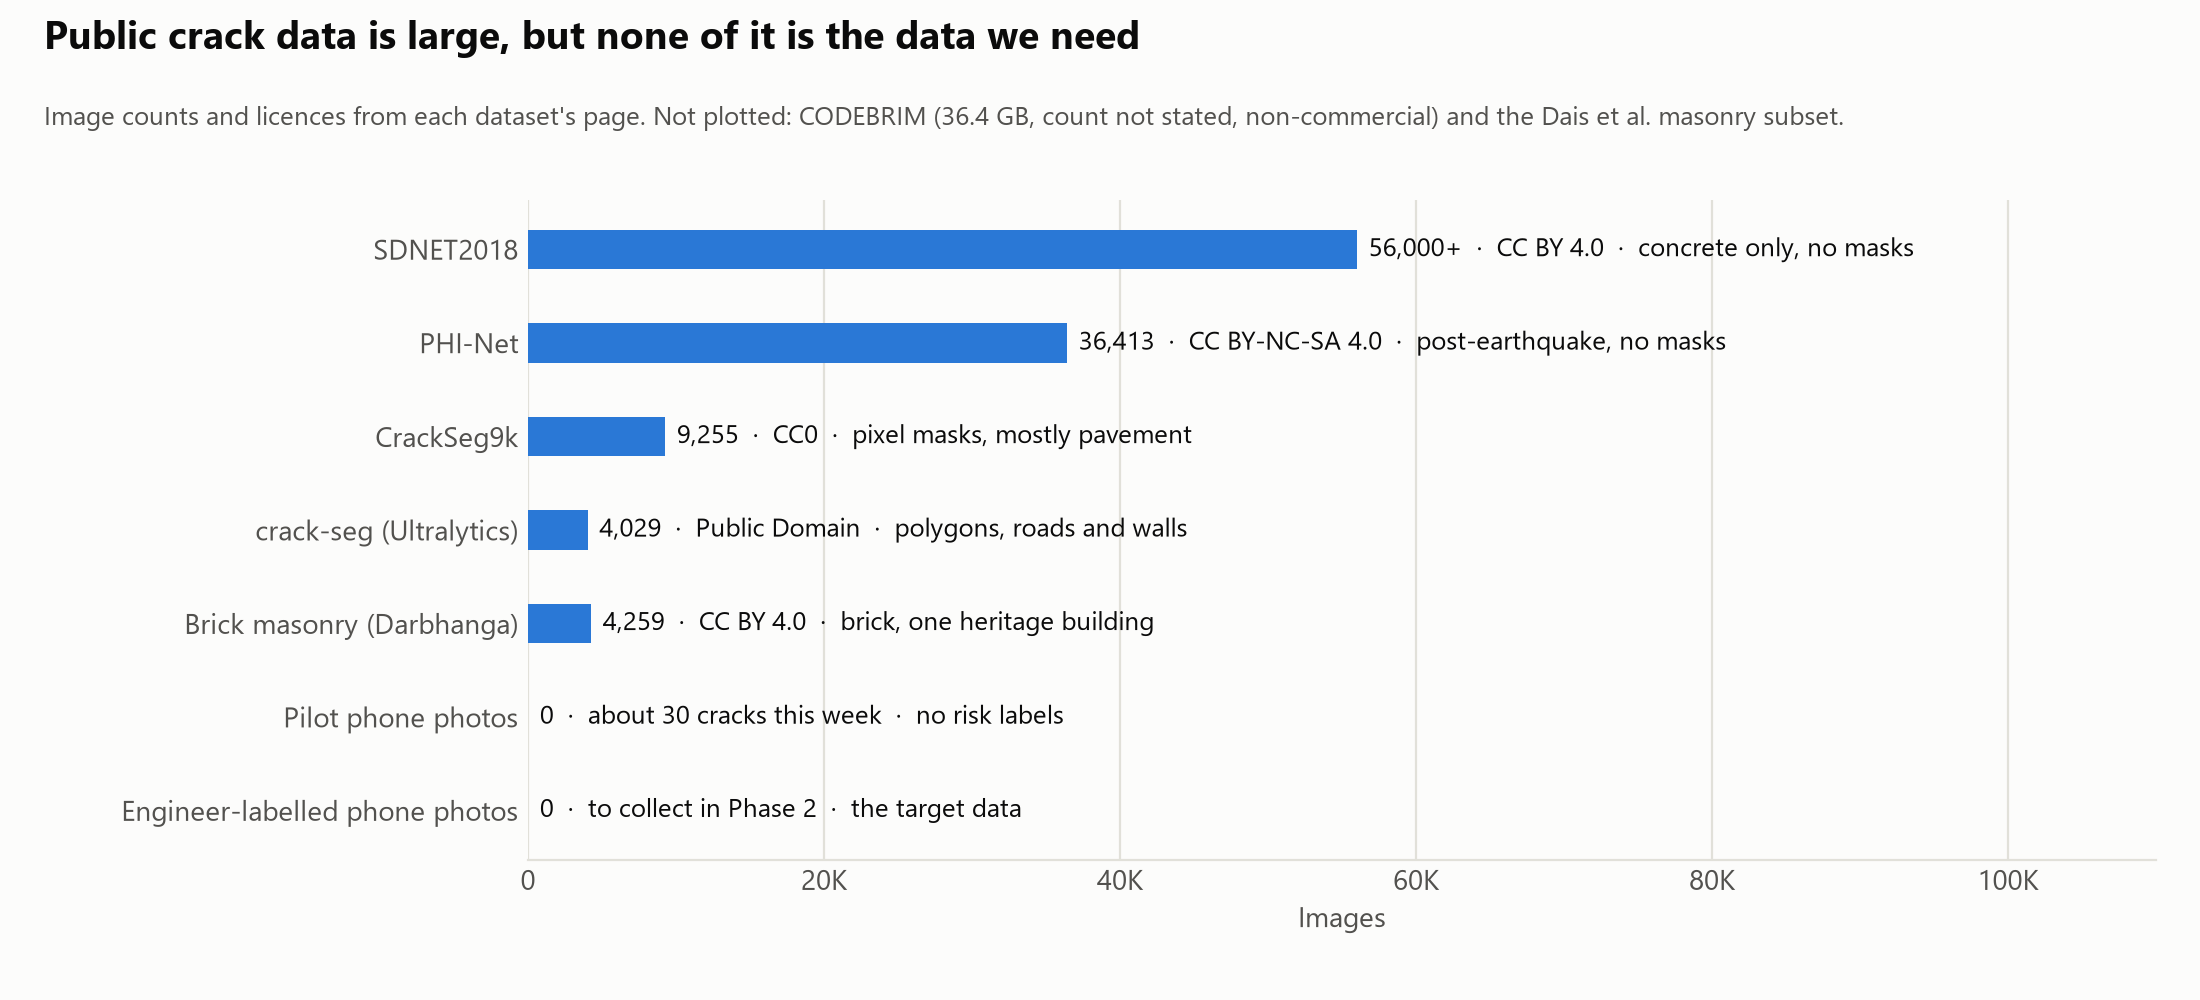
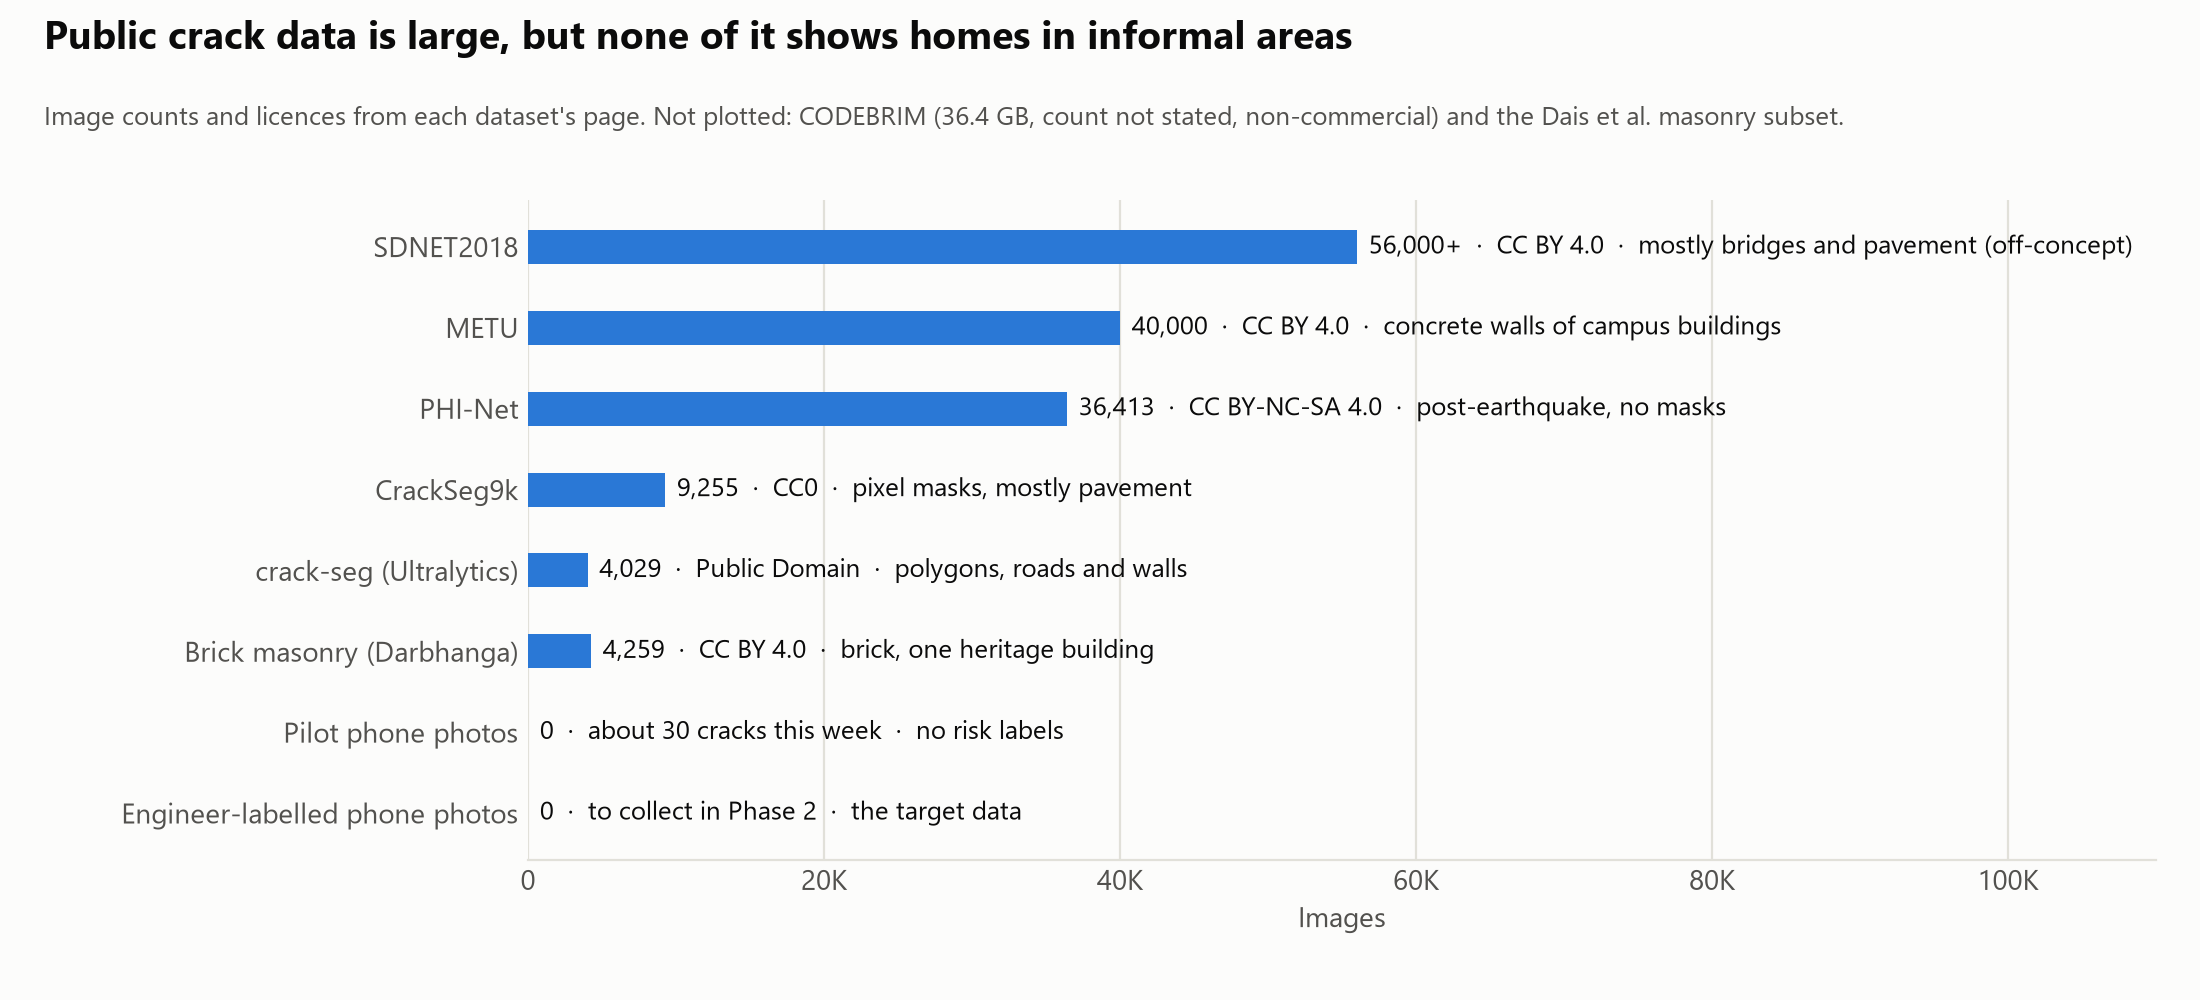
Focus on buildings in informal areas; add METU, log two Kaggle sets
- D14: the concept is buildings in slum-like, informal neighbourhoods;
  data map ranks every source by fit (bridges and pavement off-concept)
- METU building-concrete set added and run through the quality gate:
  confirms the smooth-wall blur problem on building walls (D12)
- Two Kaggle crack sets checked and logged as not used
- Dataset chart updated

diff --git a/src/experiments/real_data_quality.py b/src/experiments/real_data_quality.py
@@ -4,6 +4,7 @@ Spec: spec/features/quality_gate.md. Usage, from the repository root:
     py src/experiments/real_data_quality.py data/raw/crack-seg data/raw/sdnet2018 --per-group 200
 Recognised layouts (a root with no images is skipped):
 - SDNET2018: <surface>/<C|U><surface letter>/*.jpg (e.g. D/CD, W/UW)
+- METU: Positive/*.jpg (crack) and Negative/*.jpg (no crack)
 - YOLO style (Ultralytics crack-seg, Darbhanga): an "images" folder with a sibling "labels" folder.
   A non-empty label file means crack, a missing or empty one no crack; no labels folder means unlabelled.
 Writes per-image results to data/processed/ (ignored) and a histogram to figures/.
@@ -21,7 +22,8 @@ if __package__ in (None, ""):
 from quality.gate import MAX_BRIGHTNESS, MIN_BRIGHTNESS, MIN_SHARPNESS, check, to_grey
 
 SDNET_SURFACES = {"D": "bridge deck", "W": "wall", "P": "pavement"}
-DATASET_NAMES = {"crack-seg": "crack-seg (roads, walls)", "darbhanga": "Darbhanga (brick masonry)"}
+DATASET_NAMES = {"crack-seg": "crack-seg (roads, walls)", "darbhanga": "Darbhanga (brick masonry)",
+                 "metu": "METU (building concrete)"}
 ROOT = Path(__file__).resolve().parents[2]
 
 
@@ -45,6 +47,8 @@ def find_images(root: Path) -> dict[tuple[str, str], list[Path]]:
         name = path.parent.name.upper()
         if len(name) == 2 and name[0] in "CU" and name[1] in SDNET_SURFACES:
             groups[(f"SDNET2018 {SDNET_SURFACES[name[1]]}", "crack" if name[0] == "C" else "no crack")].append(path)
+        elif name in ("POSITIVE", "NEGATIVE"):  # METU layout
+            groups[(DATASET_NAMES.get(root.name, root.name), "crack" if name == "POSITIVE" else "no crack")].append(path)
         else:
             groups[(DATASET_NAMES.get(root.name, root.name), yolo_label(path) or "unlabelled")].append(path)
     return dict(groups)

diff --git a/src/viz/figures.py b/src/viz/figures.py
@@ -241,7 +241,8 @@ def data_coverage():
 
 
 # From docs/data_map.md, section 2 (checked on the source pages, 24 Oct 2026).
-DATASETS = [("SDNET2018", 56_000, "56,000+  ·  CC BY 4.0  ·  concrete only, no masks"),
+DATASETS = [("SDNET2018", 56_000, "56,000+  ·  CC BY 4.0  ·  mostly bridges and pavement (off-concept)"),
+            ("METU", 40_000, "40,000  ·  CC BY 4.0  ·  concrete walls of campus buildings"),
             ("PHI-Net", 36_413, "36,413  ·  CC BY-NC-SA 4.0  ·  post-earthquake, no masks"),
             ("CrackSeg9k", 9_255, "9,255  ·  CC0  ·  pixel masks, mostly pavement"),
             ("crack-seg (Ultralytics)", 4_029, "4,029  ·  Public Domain  ·  polygons, roads and walls"),
@@ -267,7 +268,7 @@ def dataset_sizes():
     for s in ("top", "right", "left"):
         ax.spines[s].set_visible(False)
     ax.set_xlabel("Images")
-    fig.suptitle("Public crack data is large, but none of it is the data we need",
+    fig.suptitle("Public crack data is large, but none of it shows homes in informal areas",
                  x=0.02, ha="left", fontsize=14, weight="bold")
     fig.text(0.02, 0.875, "Image counts and licences from each dataset's page. Not plotted: CODEBRIM (36.4 GB, count "
              "not stated, non-commercial) and the Dais et al. masonry subset.", fontsize=9.5, color=INK_2)

diff --git a/tests/test_real_data_quality.py b/tests/test_real_data_quality.py
@@ -57,6 +57,14 @@ def test_find_images_darbhanga(tmp_path):
     assert {k[1]: len(v) for k, v in find_images(root).items()} == {"crack": 1, "no crack": 1, "unlabelled": 2}
 
 
+def test_find_images_metu(tmp_path):
+    root = tmp_path / "metu"
+    _save(root / "Positive", 2)
+    _save(root / "Negative", 3)
+    assert {k: len(v) for k, v in find_images(root).items()} == {
+        ("METU (building concrete)", "crack"): 2, ("METU (building concrete)", "no crack"): 3}
+
+
 def test_main_runs_both_and_skips_empty_roots(tmp_path):
     _fake_sdnet(tmp_path / "sdnet")
     _fake_crackseg(tmp_path / "crack-seg")

diff --git a/docs/data_map.md b/docs/data_map.md
@@ -3,7 +3,23 @@
 Version for 29 Oct 2026. Public dataset facts checked on the source pages on 24 and 25 Oct 2026; numbers in brackets refer to `docs/sources.md`.
 Raw data is never committed; it lives in `data/` (git-ignored).
 
-**Bottom line.** Public data can pre-train the detector and the segmenter. No public dataset has an engineer's risk rating on a crack photo with a scale reference, so the engineer-labelled phone photos are unavoidable and are the critical path.
+**Bottom line.** The concept is cracks in **buildings in slum-like, informal neighbourhoods** (`spec/decisions.md` D14). No public dataset shows those buildings with a crack, a scale reference and an engineer's rating. Public data can only pre-train the detector and the segmenter; the photos we collect with our partners are the real data and the critical path.
+
+## 0. How close each dataset is to the concept
+
+| Fit | Data | Why |
+|---|---|---|
+| **Target** | Engineer-labelled phone photos from informal neighbourhoods (to collect with the partners) | The exact case: homes, phone photos, coin, engineer rating |
+| Medium | PHI-Net [26] | Real damaged buildings after earthquakes, with component and damage labels; not pre-failure cracks; non-commercial |
+| Medium | Darbhanga brick masonry [30] | Brick walls, the material of many informal homes; one heritage fort, not homes |
+| Medium | Dais et al. masonry masks [31] | Masonry walls with pixel masks; small |
+| Medium | Pilot photos, Barcelona old facades | Real buildings and phone photos with a coin; not informal settlements, no engineer |
+| Low | METU concrete cracks [36] | Concrete walls of campus buildings; formal buildings, tiles only |
+| Low | SDNET2018 walls subset [22] | Concrete walls, but of bridge-related structures; tiles only |
+| Low | crack-seg [33], CrackSeg9k [25] | Mostly roads and pavement; generic pre-training for crack pixels only |
+| **Off-concept** | CODEBRIM [28], SDNET2018 decks and pavement [22] | Bridges and roads, not buildings |
+
+**Still missing:** crack photos from informal or self-built housing. To search: post-disaster housing surveys and reconnaissance photo sets (for example the StEER reports [20]) and humanitarian shelter assessments.
 
 ## 1. What each pipeline stage needs, and where it comes from
 
@@ -34,6 +50,7 @@ Raw data is never committed; it lives in `data/` (git-ignored).
 | PEER Hub ImageNet (PHI-Net) | PEER, UC Berkeley [26][27] | Available | Download page per task; registration not stated | Images with 8 classification tasks (scene, damage state, spalling, material, collapse mode, component type, damage level, damage type) | 36,413 images (as of Nov 2019) | CC BY-NC-SA 4.0 | Post-earthquake structural images | No masks, no width, no scale; non-commercial |
 | CODEBRIM | Zenodo record 2620293 [28], CVPR 2019 paper [29] | Available | Open record, licence file must be accepted | Original images, cropped defects with class labels from bounding boxes, classification sets | 36.4 GB in total (cropped set 7.9 GB); image count not stated on the record | Non-commercial research and education only; no redistribution; trained models may not be used commercially | Five concrete defects on 30 bridges: crack, spalling, exposed bars, efflorescence, corrosion stains | Bridges, not homes; no scale; licence blocks any product use |
 | Brick masonry cracks, Darbhanga Fort | Singh and Maity, Mendeley Data [30] | **Downloaded** (SHA-256 matches) | Public download, scriptable | YOLO bounding boxes (class x y w h), 1 class; all images 768 x 768; test set has no labels | 4,259 images (3,407 train incl. 203 without cracks, 639 val, 213 test); 363 MB zip | CC BY 4.0 | Superficial cracks in red brick masonry | One heritage structure, not homes; no scale; boxes, not masks |
+| METU Concrete Crack Images for Classification | Özgenel, Mendeley Data, doi:10.17632/5y9wdsg2zt.2 [36] | **Downloaded** (SHA-256 matches) | Public download, scriptable; RAR archive | JPEG tiles 227 x 227, Positive / Negative folders | 40,000 (20,000 crack, 20,000 no crack), cut from 458 photos of 4032 x 3024; 241 MB | CC BY 4.0 | Concrete surfaces of buildings on the METU campus, Ankara | Formal campus buildings, not informal homes; no masks, no scale |
 | Masonry crack masks, Dais et al. 2021 | GitHub repository [31] | Subset available | Public repository | 224 x 224 images with crack masks | Subset only; count not stated | GPL-3.0 on the repository (written for code; terms for the images to confirm with the authors) | Masonry walls, complex backgrounds | Small; part of it is already in CrackSeg9k [32] |
 
 ### Our own data
@@ -54,14 +71,17 @@ Raw data is never committed; it lives in `data/` (git-ignored).
 
 ## 3. Not usable as data
 - Example photos in the deck (slide 8): stock images, authors not identified; their risk labels are a visual guess.
+- Kaggle "Crack Dataset" (yatata1, CC BY-SA 4.0, 13.8 GB, "under development") [37]: checked 25 Oct, not used. Its description says it was assembled from existing public crack sets (Rissbilder, the Kaggle "Crack Segmentation Dataset") and UAV infrastructure inspections, so it overlaps CrackSeg9k; mostly concrete and asphalt, off-concept (D14).
+- Kaggle "Crack Detection/Classification Dataset" (Apache 2.0 as labelled by the uploader, about 20 GB, v1 Aug 2026) [38]: checked 25 Oct, not used. Nine mixed domains (roads, metal, car bodies, wood, circuit boards, welding, synthetic concrete); only `Wall_Concrete` is near the concept, and it mixes walls with bridges. The sources it aggregates are not named, so provenance and licence cannot be traced.
 - Case-study figures (deaths, evacuations): context for the problem, not training data.
 
 ## 4. Plan, in order
 1. **First test on real data (29 Oct): done** on crack-seg, Darbhanga and SDNET2018 (`docs/experiments/2026-10-25_quality_gate_first_test.md`). It found and fixed a resolution bug in the blur check, and showed that the blur check confuses smooth walls with blur (D12). Tests the code, not the thresholds.
-2. **U-Net training set:** CrackSeg9k, plus the Dais et al. masonry masks if their image terms allow it.
-3. **Pattern gaps:** CODEBRIM for spalling with rust (research only), Darbhanga for brick masonry.
-4. **Pilot photos this week:** about 30 cracks on public facades in Barcelona, following `spec/features/photo_protocol.md`. Tests the protocol and gives the quality gate real phone photos.
-5. **Engineering partners, now:** Engineers Without Borders and a third-party structural engineer (agreement under construction) for labelled photos, baseline ratings and sign-off. Everything in Phase 2 waits on this.
+2. **U-Net pre-training:** CrackSeg9k for generic crack pixels, then fine-tune on masonry (Dais et al., if their image terms allow it) and on our own building photos.
+3. **Building-like data first:** Darbhanga (brick), PHI-Net (damaged buildings), METU (building concrete). CODEBRIM is off-concept (bridges): use it only if no building photos of spalling with rust turn up.
+4. **Find informal-housing crack photos:** post-disaster housing surveys, reconnaissance photo sets, shelter assessments (section 0).
+5. **Pilot photos this week:** about 30 cracks on public facades in Barcelona, following `spec/features/photo_protocol.md`. Tests the protocol and gives the quality gate real phone photos.
+6. **Engineering partners, now:** Engineers Without Borders and a third-party structural engineer (agreement under construction) for labelled photos, baseline ratings and sign-off. Everything in Phase 2 waits on this.
 
 ## 5. Open items
 - Consent and data rules for Phase 2: the deck says "photos stay with the household"; labelling needs copies. Write who keeps what, for how long, and how faces and addresses are removed.

diff --git a/docs/experiments/2026-10-25_quality_gate_first_test.md b/docs/experiments/2026-10-25_quality_gate_first_test.md
@@ -4,17 +4,18 @@ Deliverable for 29 Oct: "agent working on real data as a first test".
 Spec: `spec/features/quality_gate.md`. Code: `src/experiments/real_data_quality.py`. Figure: `figures/08_real_data_quality_gate.png`.
 
 ## What was run
-The quality gate's image checks (sharpness, brightness) on three public datasets, downloaded into `data/raw/` (git-ignored). First run: every image of crack-seg and Darbhanga (8,288). Second run, with SDNET2018 added: up to 2,000 random images per group (16,417).
+The quality gate's image checks (sharpness, brightness) on four public datasets, downloaded into `data/raw/` (git-ignored). First run: every image of crack-seg and Darbhanga (8,288). Later runs added SDNET2018 and METU: up to 2,000 random images per group (20,417 in the last run).
 
 | Dataset | Images | Size | Labels | Check of the download |
 |---|---|---|---|---|
 | Ultralytics crack-seg [33][34] | 4,029 (3,717 train, 200 val, 112 test) | all 416 x 416 | YOLO polygons, 1 class; 1 empty label file | Counted in the zip |
 | Darbhanga brick masonry [30] | 4,259 (3,407 train, 639 val, 213 test) | all 768 x 768 | YOLO bounding boxes, 1 class; test has no labels; 203 train images without labels (no crack) | SHA-256 matches the Mendeley record |
+| METU concrete cracks [36] | 40,000 (20,000 crack, 20,000 no crack) | 227 x 227 tiles | crack / no crack by folder | SHA-256 matches the Mendeley record |
 | SDNET2018 [22] | 56,092 (deck 2,025 cracked / 11,595 uncracked; wall 3,851 / 14,287; pavement 2,608 / 21,726) | 256 x 256 tiles | crack / no crack by folder | Downloaded in a browser (scripted download blocked); every file size checked against the download |
 
 The coin check is not implemented, so every image was treated as if the coin were confirmed; these sets have no coin.
 
-## Results (second run, all three datasets)
+## Results (last run, four datasets)
 
 ![Quality gate on real images](../../figures/08_real_data_quality_gate.png)
 
@@ -24,6 +25,8 @@ The coin check is not implemented, so every image was treated as if the coin wer
 | Darbhanga | crack | 2,000 | 73% | 219.6 | 123.9 | blurred |
 | Darbhanga | no crack | 203 | 95% | 233.9 | 149.9 | blurred |
 | Darbhanga | unlabelled (test) | 213 | 89% | 286.6 | 121.7 | blurred |
+| METU building concrete | crack | 2,000 | 39% | 82.0 | 165.0 | blurred |
+| METU building concrete | no crack | 2,000 | 3% | 21.5 | 183.5 | blurred |
 | SDNET2018 bridge deck | crack | 2,000 | 25% | 58.2 | 178.6 | blurred |
 | SDNET2018 bridge deck | no crack | 2,000 | 13% | 44.3 | 177.7 | blurred |
 | SDNET2018 wall | crack | 2,000 | 20% | 44.5 | 173.1 | blurred |
@@ -37,7 +40,7 @@ First run on every crack-seg image (4,029): 97% pass, 118 too bright, 14 blurred
 1. **The code runs on real images end to end**: three datasets, up to 16,417 images per run, measured and logged, with a figure.
 2. **Bug found and fixed: sharpness depended on resolution.** Before the fix the gate rejected 63% of all Darbhanga images as blurred. Scaling the same images to 416 px dropped the blurred share from 67% to 11% (sample of 107 images). A phone photo at about 4000 px would almost always have failed. The gate now measures on a copy scaled to 512 px (`spec/decisions.md` D8). This is why a test on real data was worth doing before the pilot.
 3. **Cracked brick images score lower on sharpness than uncracked ones** (73% vs 95% pass). Possible reasons: close-ups of cracks, smoother surfaces, or real blur. Not tested; we need to look at the rejected images before changing anything.
-4. **Second problem found: the blur measure confuses smooth surfaces with blur.** The gate rejects 75 to 89% of SDNET2018 wall and deck tiles, but only 9 to 16% of pavement. These are 256 px tiles, so it is not the resolution bug. A visual check of 8 rejected cracked-wall tiles: most are in focus, smooth low-contrast concrete with hairline cracks; a few look slightly soft. Laplacian variance measures texture as much as focus. On real walls this means **hairline cracks on smooth plaster or concrete would be sent back for retake again and again**. That is safe (a retake is never a Low) but makes the tool unusable for exactly the walls we care about. Not fixed yet: we need photos with known blur to choose a better measure (`spec/decisions.md` D12).
+4. **Second problem found: the blur measure confuses smooth surfaces with blur.** The gate rejects 75 to 89% of SDNET2018 wall and deck tiles, but only 9 to 16% of pavement. These are 256 px tiles, so it is not the resolution bug. A visual check of 8 rejected cracked-wall tiles: most are in focus, smooth low-contrast concrete with hairline cracks; a few look slightly soft. Laplacian variance measures texture as much as focus. On real walls this means **hairline cracks on smooth plaster or concrete would be sent back for retake again and again**. That is safe (a retake is never a Low) but makes the tool unusable for exactly the walls we care about. **Confirmed on building walls:** on METU (concrete surfaces of campus buildings, the closest of these sets to our concept, D14) the gate rejects 61% of cracked and 97% of uncracked tiles. Not fixed yet: we need photos with known blur to choose a better measure (`spec/decisions.md` D12).
 5. **"Too bright" is the main failure on crack-seg** (118 of 4,029). Many images are pale concrete or pavement; the 220 limit may be too strict for light walls. To check on the pilot phone photos.
 
 ## Limits

diff --git a/spec/decisions.md b/spec/decisions.md
@@ -56,8 +56,13 @@ The plan runs to the final presentation on 17 Dec and the blog post by 24 Dec, w
 ## D12 (2026-10-25): the blur check is not trusted on smooth walls yet
 Laplacian variance rejected 75 to 89% of SDNET2018 wall and deck tiles, most of them in focus but smooth (visual check of 8). Hairline cracks on smooth walls would be sent to retake again and again.
 Decision: keep the check (a retake is never a Low, so it is safe), but do not tune it on public data. Choose the measure and threshold on the pilot photos, using the deliberately blurred shots as ground truth.
-Status: open; results in `docs/experiments/2026-10-25_quality_gate_first_test.md`.
+Status: open; confirmed on METU building walls (61% of cracked tiles rejected); results in `docs/experiments/2026-10-25_quality_gate_first_test.md`.
 
 ## D13 (2026-10-25): the name is Second Look
 The project is called Second Look everywhere: repo, decks, logo, blog post. "Crack triage" is no longer used as a name; "triage" stays only as the word for what the tool does.
 Reason: the 22 Oct deck said "Crack triage" while the repo said "Second Look"; one name for the logo and the weekly decks.
+
+## D14 (2026-10-25): the concept is buildings in informal neighbourhoods
+Second Look is for cracks in buildings in slum-like, informal or ageing unsupervised neighbourhoods, not bridges, roads or pavement.
+Data is ranked by how close it is to that case (`docs/data_map.md`, section 0). Bridge and pavement sets (CODEBRIM, SDNET2018 decks and pavement) are off-concept; road-heavy sets (crack-seg, CrackSeg9k) are generic pre-training only.
+Reason: the team's concept; earlier data choices leaned on bridge and pavement sets because they are the largest public ones.

diff --git a/docs/sources.md b/docs/sources.md
@@ -37,3 +37,6 @@ Numbered as in the 22 Oct 2026 presentation. [25] to [27] added for the data map
 33. Ultralytics docs, Crack Segmentation dataset (crack-seg): https://docs.ultralytics.com/datasets/segment/crack-seg/
 34. Ultralytics platform, crack-seg dataset page: https://platform.ultralytics.com/ultralytics/datasets/crack-seg
 35. Ultralytics licence (AGPL-3.0 or Enterprise): https://ultralytics.com/license
+36. Özgenel, Concrete Crack Images for Classification (METU), Mendeley Data v2, doi:10.17632/5y9wdsg2zt.2: https://data.mendeley.com/datasets/5y9wdsg2zt/2
+37. Yata-ta, Crack Dataset, Kaggle (v11, checked 25 Oct 2026): https://www.kaggle.com/datasets/yatata1/crack-dataset
+38. Crack Detection/Classification Dataset, Kaggle (v1, checked 25 Oct 2026): https://www.kaggle.com/datasets/nawfeelrahman1124444/crack-detectionclassification-dataset
